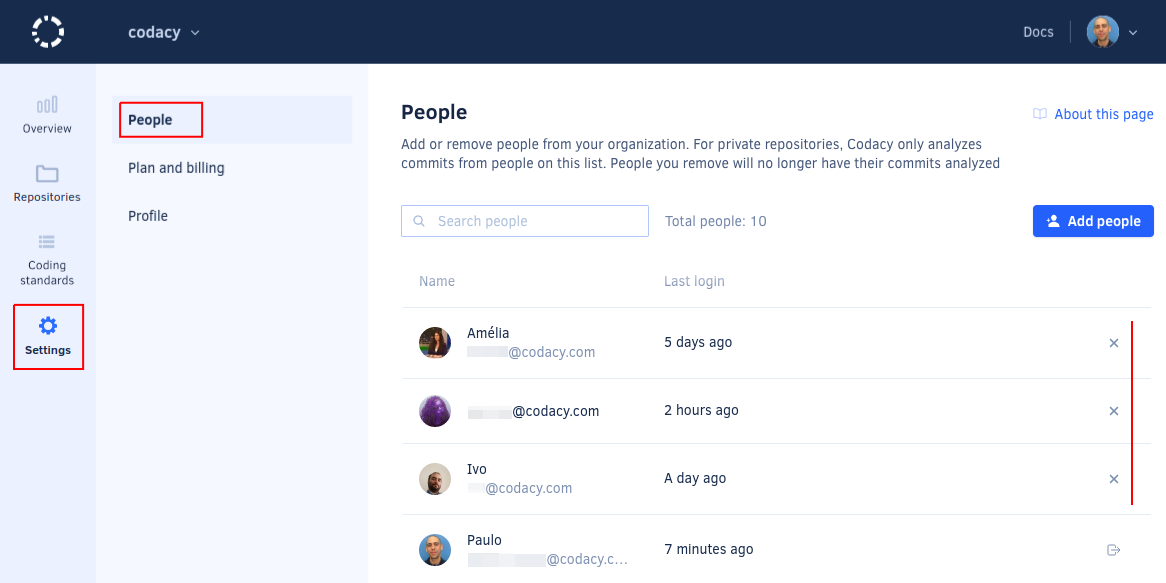
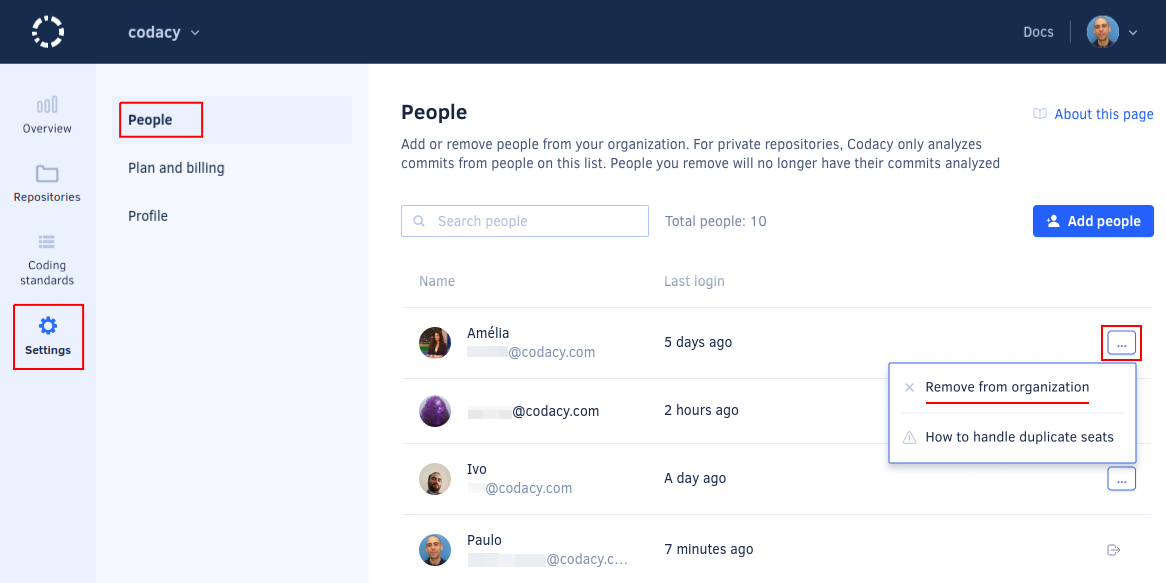
feat: Document new member deletion flow

Changed region(s): [[0.741, 0.5557, 0.988, 0.8645]]

diff --git a/docs/organizations/managing-people.md b/docs/organizations/managing-people.md
@@ -65,7 +65,7 @@ When a member or committer leaves an organization:
 -   **On GitLab and Bitbucket organizations** Codacy stops analyzing repositories that were added by the member
 -   Organizations must have at least one admin, so when the last organization admin leaves the organization they must either add someone else as admin or [delete the organization](../organizations/what-are-organizations.md#deleting-an-organization)
 
-To remove people from your organization open your organization **Settings**, page **People**, and click the icon next to the member or committer you wish to remove:
+To remove people from your organization open your organization **Settings**, page **People**, click the icon next to the member or committer you wish to remove, and select **Remove from organization**:
 
 ![Removing people from your organization](images/organization-people-remove.png)
 
